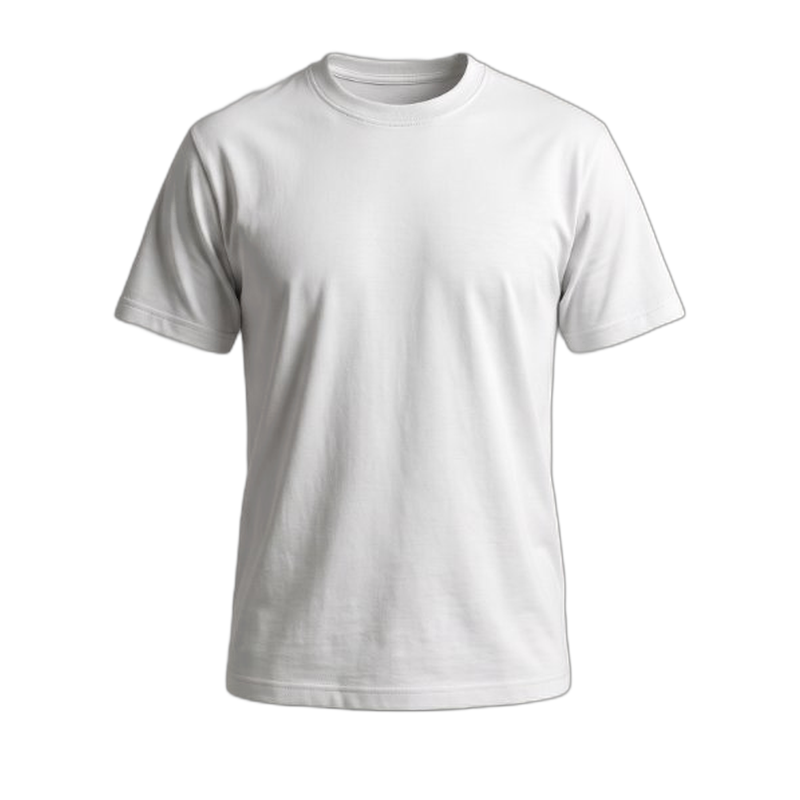
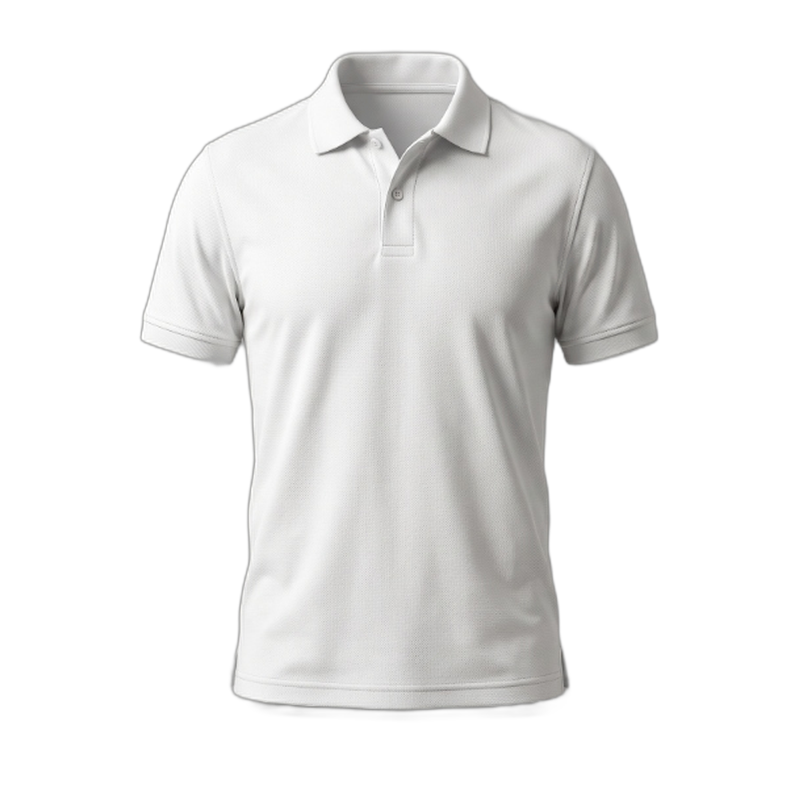
feat(studio): map dedicated real studio photography for regular fit, oversized, sweatshirt, and polo categories

Changed region(s): [[0.125, 0.0625, 0.875, 0.9062]]

diff --git a/src/app/custom-print/page.tsx b/src/app/custom-print/page.tsx
@@ -43,6 +43,42 @@ interface GarmentOption {
 
 const GARMENTS: GarmentOption[] = [
   {
+    id: "regular-fit",
+    name: "Regular Fit T-Shirt",
+    fit: "Classic Straight Cut",
+    gsm: 190,
+    fabric: "Pre-Shrunk Bio-Washed Cotton",
+    basePrice: 999,
+    description: "Clean essential cut for everyday comfort and sharp prints.",
+  },
+  {
+    id: "oversized",
+    name: "Oversized T-Shirt",
+    fit: "Tokyo Boxy Drop-Shoulder",
+    gsm: 280,
+    fabric: "High-Density Dense Weave Cotton",
+    basePrice: 1699,
+    description: "Signature drop-shoulder drape with a heavy structured silhouette.",
+  },
+  {
+    id: "sweatshirt",
+    name: "Crewneck Sweatshirt",
+    fit: "Athletic Raglan V-Notch",
+    gsm: 350,
+    fabric: "Brushed Fleece Heavy Cotton",
+    basePrice: 2199,
+    description: "Athletic triangular V-stitch inset with heavy ribbed waistband.",
+  },
+  {
+    id: "polo",
+    name: "Polo T-Shirt",
+    fit: "Structured Athletic",
+    gsm: 260,
+    fabric: "Honeycomb Pique Cotton",
+    basePrice: 1499,
+    description: "Classic collar with 2-button placket and reinforced side vents.",
+  },
+  {
     id: "half-sleeve",
     name: "Half Sleeve T-Shirt",
     fit: "Relaxed Everyday",
@@ -61,33 +97,6 @@ const GARMENTS: GarmentOption[] = [
     description: "Extended sleeves with dense ribbed cuffs for crisp layering.",
   },
   {
-    id: "oversized",
-    name: "Oversized T-Shirt",
-    fit: "Tokyo Boxy Fit",
-    gsm: 280,
-    fabric: "High-Density Dense Weave Cotton",
-    basePrice: 1699,
-    description: "Signature drop-shoulder drape with a heavy structured silhouette.",
-  },
-  {
-    id: "regular-fit",
-    name: "Regular Fit T-Shirt",
-    fit: "Classic Straight Cut",
-    gsm: 190,
-    fabric: "Pre-Shrunk Bio-Washed Cotton",
-    basePrice: 999,
-    description: "Clean essential cut for everyday comfort and sharp prints.",
-  },
-  {
-    id: "polo",
-    name: "Polo T-Shirt",
-    fit: "Structured Athletic",
-    gsm: 260,
-    fabric: "Honeycomb Pique Cotton",
-    basePrice: 1499,
-    description: "Classic collar with 2-button placket and reinforced side vents.",
-  },
-  {
     id: "hoodie",
     name: "Heavyweight Hoodie",
     fit: "Oversized Streetwear",
@@ -95,15 +104,6 @@ const GARMENTS: GarmentOption[] = [
     fabric: "French Terry Fleeceback Cotton",
     basePrice: 2499,
     description: "Double-layered thermal hood, kangaroo pouch & metal aglet cords.",
-  },
-  {
-    id: "sweatshirt",
-    name: "Crewneck Sweatshirt",
-    fit: "Relaxed Raglan",
-    gsm: 350,
-    fabric: "Brushed Fleece Heavy Cotton",
-    basePrice: 2199,
-    description: "Athletic triangular V-stitch inset with heavy ribbed waistband.",
   },
 ];
 
@@ -224,7 +224,7 @@ export default function CustomPrintStudioPage() {
   const { addToCart } = useCart();
 
   // Garment & Configuration State
-  const [selectedGarment, setSelectedGarment] = useState<GarmentOption>(GARMENTS[2]); // Default Oversized
+  const [selectedGarment, setSelectedGarment] = useState<GarmentOption>(GARMENTS[0]); // Default Regular Fit T-Shirt
   const [selectedColor, setSelectedColor] = useState<ColorOption>(COLORWAYS[0]); // Midnight Navy
   const [activeView, setActiveView] = useState<"front" | "back">("front");
   const [printSide, setPrintSide] = useState<string>("both");

diff --git a/src/components/studio/GarmentModel.tsx b/src/components/studio/GarmentModel.tsx
@@ -131,7 +131,7 @@ export default function GarmentModel({
 
   // Printable Zone Dimensions and Positioning by Placement
   const getPlacementBoxStyle = () => {
-    const isHoodie = garmentId === "hoodie" || garmentId === "sweatshirt";
+    const isHoodie = garmentId === "hoodie";
     const isPolo = garmentId === "polo";
 
     if (view === "front") {

diff --git a/scripts/process-user-real-mockups.py b/scripts/process-user-real-mockups.py
@@ -50,28 +50,54 @@ def main():
     print("Initializing rembg u2netp session...")
     session = rembg.new_session("u2netp")
     
-    # 1. Short Sleeve / Regular Fit / Half Sleeve / Oversized / Polo
-    tee_src = os.path.join(base_dir, "media_1795496383034_59e9066a.jpg")
-    if not os.path.exists(tee_src):
-        tee_src = os.path.join(base_dir, "media_1795284214912_e03f8b52.jpg")
+    # 1. Half Sleeve T-Shirt
+    half_sleeve_src = os.path.join(base_dir, "media_1795496383034_59e9066a.jpg")
+    if not os.path.exists(half_sleeve_src):
+        half_sleeve_src = os.path.join(base_dir, "media_1795284214912_e03f8b52.jpg")
     process_image(
-        tee_src,
-        front_out_names=[
-            "mockup-half-sleeve-front.png",
-            "mockup-regular-fit-front.png",
-            "mockup-oversized-front.png",
-            "mockup-polo-front.png"
-        ],
-        back_out_names=[
-            "mockup-half-sleeve-back.png",
-            "mockup-regular-fit-back.png",
-            "mockup-oversized-back.png",
-            "mockup-polo-back.png"
-        ],
+        half_sleeve_src,
+        front_out_names=["mockup-half-sleeve-front.png"],
+        back_out_names=["mockup-half-sleeve-back.png"],
+        session=session
+    )
+
+    # 2. Regular Fit T-Shirt
+    regular_fit_src = os.path.join(base_dir, "media_1795498711341_023ca673.jpg")
+    process_image(
+        regular_fit_src,
+        front_out_names=["mockup-regular-fit-front.png"],
+        back_out_names=["mockup-regular-fit-back.png"],
+        session=session
+    )
+
+    # 3. Oversized T-Shirt
+    oversized_src = os.path.join(base_dir, "media_1795498711354_77f1647a.jpg")
+    process_image(
+        oversized_src,
+        front_out_names=["mockup-oversized-front.png"],
+        back_out_names=["mockup-oversized-back.png"],
+        session=session
+    )
+
+    # 4. Crewneck Sweatshirt
+    sweatshirt_src = os.path.join(base_dir, "media_1795498711360_ada7b038.jpg")
+    process_image(
+        sweatshirt_src,
+        front_out_names=["mockup-sweatshirt-front.png"],
+        back_out_names=["mockup-sweatshirt-back.png"],
+        session=session
+    )
+
+    # 5. Polo T-Shirt
+    polo_src = os.path.join(base_dir, "media_1795498711279_3ec3852a.jpg")
+    process_image(
+        polo_src,
+        front_out_names=["mockup-polo-front.png"],
+        back_out_names=["mockup-polo-back.png"],
         session=session
     )
     
-    # 2. Full Sleeve T-Shirt
+    # 6. Full Sleeve T-Shirt
     full_sleeve_src = os.path.join(base_dir, "media_1795496383002_d305bbb1.jpg")
     if not os.path.exists(full_sleeve_src):
         full_sleeve_src = os.path.join(base_dir, "media_1795284214896_672e14bd.jpg")
@@ -82,18 +108,18 @@ def main():
         session=session
     )
     
-    # 3. Hoodie & Sweatshirt
+    # 7. Heavyweight Hoodie
     hoodie_src = os.path.join(base_dir, "media_1795496382987_db3373a9.jpg")
     if not os.path.exists(hoodie_src):
         hoodie_src = os.path.join(base_dir, "media_1795284214909_a927628c.jpg")
     process_image(
         hoodie_src,
-        front_out_names=["mockup-hoodie-front.png", "mockup-sweatshirt-front.png"],
-        back_out_names=["mockup-hoodie-back.png", "mockup-sweatshirt-back.png"],
+        front_out_names=["mockup-hoodie-front.png"],
+        back_out_names=["mockup-hoodie-back.png"],
         session=session
     )
     
-    print("\n--- All 14 photorealistic studio mockups successfully generated from real reference photos! ---")
+    print("\n--- All 7 garments (14 mockups) generated with their own individual real studio photos! ---")
 
 if __name__ == "__main__":
     main()
